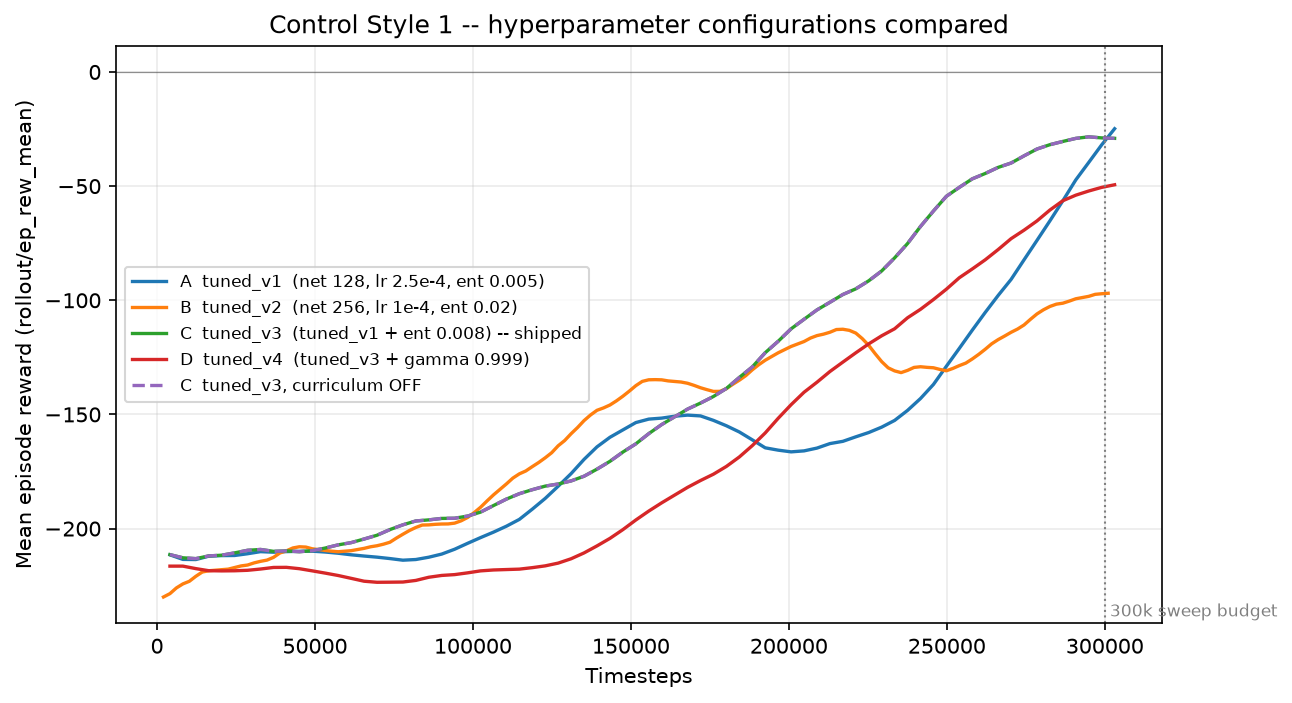
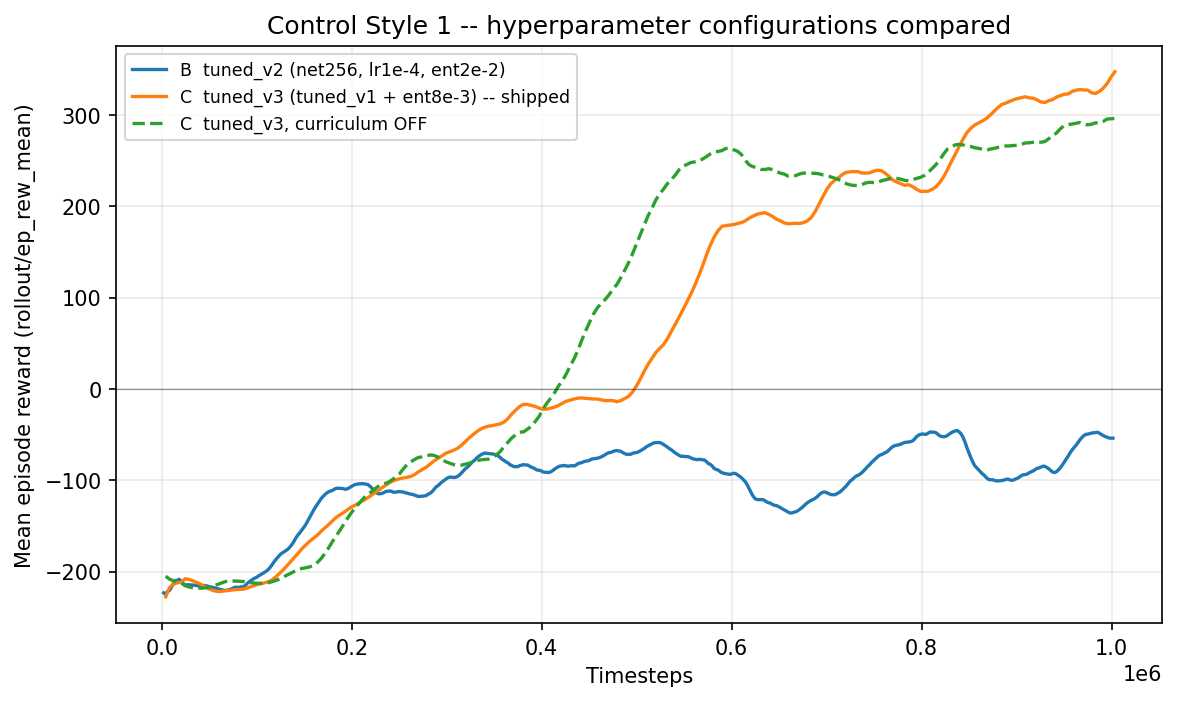
part2: regenerate hparam-comparison figures at 1M
style{1,2}_hparam_comparison.png were left on the old 300k exploration
sweep by the 1M pipeline (not in RUN_PART2_PIPELINE.md's file list, and
the default 5-run set needs tuned_v1/tuned_v4 logs that were pruned as
retired). Rebuild both from the runs that do exist at 1M: tuned_v2
curriculum-on, tuned_v3 curriculum-on (shipped), tuned_v3 curriculum-off.

final rollout/ep_rew_mean @1M:
  s1  v2 -54.3   v3-on +355.7   v3-off +299.2
  s2  v2 -102.7  v3-on +309.3   v3-off +354.6

plot_hparam_comparison.py: drop the hardcoded "300k sweep budget" vline +
label, which is meaningless now that every overlaid curve runs to 1M.

Claude-Session: https://claude.ai/code/session_01Cc1VPuxVFhC4AdnbcSg7Ao

diff --git a/part2_arena/scripts/plot_hparam_comparison.py b/part2_arena/scripts/plot_hparam_comparison.py
@@ -120,8 +120,6 @@ def main() -> None:
             f"final {args.tag} = {values[-1]:.1f}"
         )
 
-    ax.axvline(300_000, color="grey", linestyle=":", linewidth=1)
-    ax.text(300_000, ax.get_ylim()[0], " 300k sweep budget", fontsize=8, color="grey", va="bottom")
     ax.axhline(0, color="black", linewidth=0.6, alpha=0.4)
     ax.set_xlabel("Timesteps")
     ax.set_ylabel("Mean episode reward (rollout/ep_rew_mean)")
